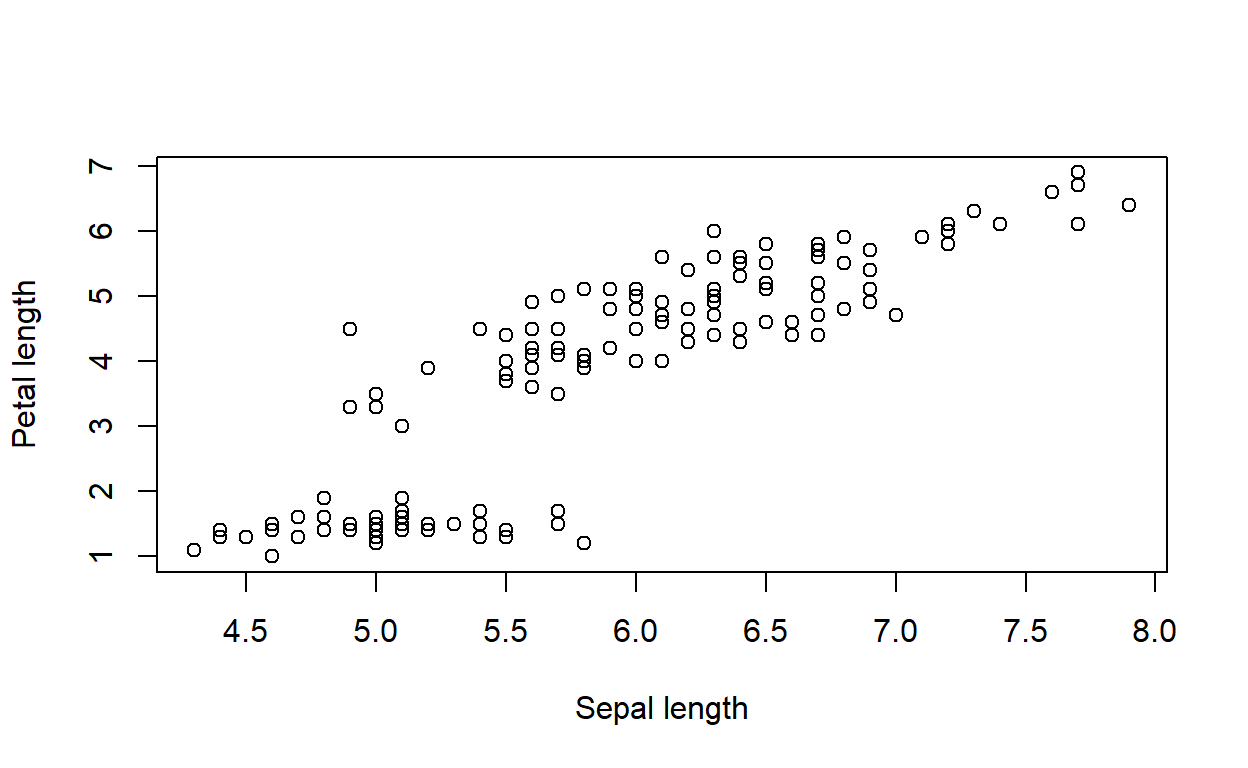
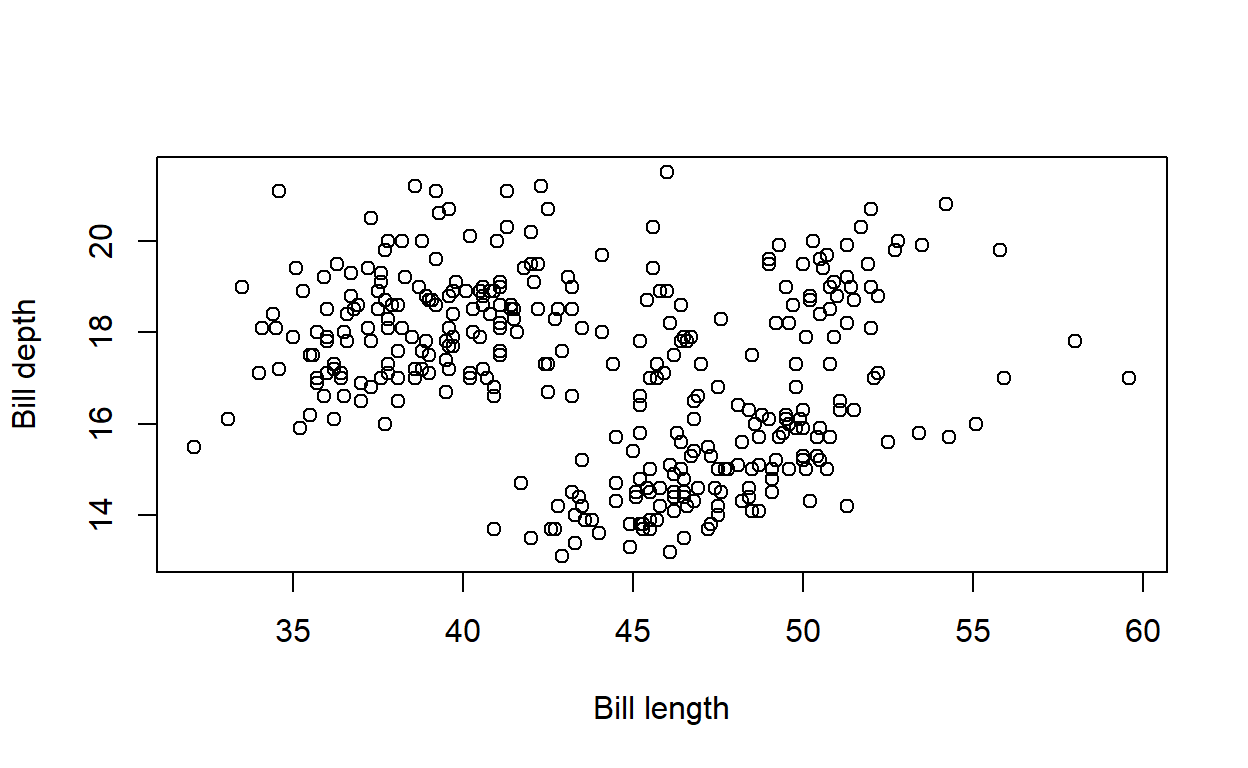
update Rstudio tutorial

diff --git a/docs/posts/RStudio_for_beginners/index.html b/docs/posts/RStudio_for_beginners/index.html
@@ -24,8 +24,8 @@
 
 
 <!--  https://schema.org/Article -->
-<meta property="article:published" itemprop="datePublished" content="2020-07-02"/>
-<meta property="article:created" itemprop="dateCreated" content="2020-07-02"/>
+<meta property="article:published" itemprop="datePublished" content="2020-07-08"/>
+<meta property="article:created" itemprop="dateCreated" content="2020-07-08"/>
 
 <!--  https://developers.facebook.com/docs/sharing/webmasters#markup -->
 <meta property="og:title" content="Pop_Ecol_KMUTT: Beginner session in R"/>
@@ -41,7 +41,7 @@
   <!--radix_placeholder_rmarkdown_metadata-->
 
 <script type="text/json" id="radix-rmarkdown-metadata">
-{"type":"list","attributes":{"names":{"type":"character","attributes":{},"value":["title","output","date"]}},"value":[{"type":"character","attributes":{},"value":["Beginner session in R"]},{"type":"list","attributes":{"names":{"type":"character","attributes":{},"value":["distill::distill_article"]}},"value":[{"type":"list","attributes":{"names":{"type":"character","attributes":{},"value":["self_contained"]}},"value":[{"type":"logical","attributes":{},"value":[false]}]}]},{"type":"character","attributes":{},"value":["07-02-2020"]}]}
+{"type":"list","attributes":{"names":{"type":"character","attributes":{},"value":["title","output","date"]}},"value":[{"type":"character","attributes":{},"value":["Beginner session in R"]},{"type":"list","attributes":{"names":{"type":"character","attributes":{},"value":["distill::distill_article"]}},"value":[{"type":"list","attributes":{"names":{"type":"character","attributes":{},"value":["self_contained"]}},"value":[{"type":"logical","attributes":{},"value":[false]}]}]},{"type":"character","attributes":{},"value":["07-08-2020"]}]}
 </script>
 <!--/radix_placeholder_rmarkdown_metadata-->
   
@@ -1276,7 +1276,7 @@ document.addEventListener('DOMContentLoaded', function() {
 <!--radix_placeholder_front_matter-->
 
 <script id="distill-front-matter" type="text/json">
-{"title":"Beginner session in R","authors":[],"publishedDate":"2020-07-02T00:00:00.000+02:00"}
+{"title":"Beginner session in R","authors":[],"publishedDate":"2020-07-08T00:00:00.000+02:00"}
 </script>
 
 <!--/radix_placeholder_front_matter-->
@@ -1848,7 +1848,7 @@ plot(x=penguins$bill_length_mm, y=penguins$bill_depth_mm)</code></pre>
 <p>We can change axis labels by changing xlab and ylab in the brackets:</p>
 <div class="layout-chunk" data-layout="l-body">
 <pre class="r"><code>
-plot(x=iris$Sepal.Length, y=iris$Petal.Length, xlab=&quot;Sepal length&quot;, ylab=&quot;Petal length&quot;)</code></pre>
+plot(x=penguins$bill_length_mm, y=penguins$bill_depth_mm, xlab=&quot;Bill length&quot;, ylab=&quot;Bill depth&quot;)</code></pre>
 <p><img src="RStudio_for_beginners_files/figure-html5/unnamed-chunk-34-1.png" width="624" /></p>
 </div>
 <p>We can change the colour of the circles depending on the species:</p>

diff --git a/_posts/RStudio_for_beginners/RStudio_for_beginners.html b/_posts/RStudio_for_beginners/RStudio_for_beginners.html
@@ -24,8 +24,8 @@
   
   
   <!--  https://schema.org/Article -->
-  <meta property="article:published" itemprop="datePublished" content="2020-07-02"/>
-  <meta property="article:created" itemprop="dateCreated" content="2020-07-02"/>
+  <meta property="article:published" itemprop="datePublished" content="2020-07-08"/>
+  <meta property="article:created" itemprop="dateCreated" content="2020-07-08"/>
   
   <!--  https://developers.facebook.com/docs/sharing/webmasters#markup -->
   <meta property="og:title" content="Beginner session in R"/>
@@ -40,7 +40,7 @@
   <!--radix_placeholder_rmarkdown_metadata-->
   
   <script type="text/json" id="radix-rmarkdown-metadata">
-  {"type":"list","attributes":{"names":{"type":"character","attributes":{},"value":["title","output","date"]}},"value":[{"type":"character","attributes":{},"value":["Beginner session in R"]},{"type":"list","attributes":{"names":{"type":"character","attributes":{},"value":["distill::distill_article"]}},"value":[{"type":"list","attributes":{"names":{"type":"character","attributes":{},"value":["self_contained"]}},"value":[{"type":"logical","attributes":{},"value":[false]}]}]},{"type":"character","attributes":{},"value":["07-02-2020"]}]}
+  {"type":"list","attributes":{"names":{"type":"character","attributes":{},"value":["title","output","date"]}},"value":[{"type":"character","attributes":{},"value":["Beginner session in R"]},{"type":"list","attributes":{"names":{"type":"character","attributes":{},"value":["distill::distill_article"]}},"value":[{"type":"list","attributes":{"names":{"type":"character","attributes":{},"value":["self_contained"]}},"value":[{"type":"logical","attributes":{},"value":[false]}]}]},{"type":"character","attributes":{},"value":["07-08-2020"]}]}
   </script>
   <!--/radix_placeholder_rmarkdown_metadata-->
   
@@ -938,7 +938,7 @@
 <!--radix_placeholder_front_matter-->
 
 <script id="distill-front-matter" type="text/json">
-{"title":"Beginner session in R","authors":[],"publishedDate":"2020-07-02T00:00:00.000+02:00"}
+{"title":"Beginner session in R","authors":[],"publishedDate":"2020-07-08T00:00:00.000+02:00"}
 </script>
 
 <!--/radix_placeholder_front_matter-->
@@ -1486,7 +1486,7 @@ plot(x=penguins$bill_length_mm, y=penguins$bill_depth_mm)</code></pre>
 <p>We can change axis labels by changing xlab and ylab in the brackets:</p>
 <div class="layout-chunk" data-layout="l-body">
 <pre class="r"><code>
-plot(x=iris$Sepal.Length, y=iris$Petal.Length, xlab=&quot;Sepal length&quot;, ylab=&quot;Petal length&quot;)</code></pre>
+plot(x=penguins$bill_length_mm, y=penguins$bill_depth_mm, xlab=&quot;Bill length&quot;, ylab=&quot;Bill depth&quot;)</code></pre>
 <p><img src="RStudio_for_beginners_files/figure-html5/unnamed-chunk-34-1.png" width="624" /></p>
 </div>
 <p>We can change the colour of the circles depending on the species:</p>

diff --git a/docs/index.html b/docs/index.html
@@ -1624,7 +1624,7 @@ function init_posts_list() {
 <a href="posts/RStudio_for_beginners/" class="post-preview">
 <script class="post-metadata" type="text/json">{"categories":[]}</script>
 <div class="metadata">
-<div class="publishedDate">July 2, 2020</div>
+<div class="publishedDate">July 8, 2020</div>
 </div>
 <div class="thumbnail">
 <img data-src="posts/RStudio_for_beginners/RStudio_for_beginners_files/figure-html5/unnamed-chunk-33-1.png"/>
@@ -1637,9 +1637,11 @@ function init_posts_list() {
 <a href="posts/welcome/" class="post-preview">
 <script class="post-metadata" type="text/json">{"categories":[]}</script>
 <div class="metadata">
-<div class="publishedDate">June 30, 2020</div>
+<div class="publishedDate">July 1, 2020</div>
 </div>
-<div class="thumbnail"></div>
+<div class="thumbnail">
+<img/>
+</div>
 <div class="description">
 <h2>Welcome</h2>
 <p></p>
@@ -1650,7 +1652,7 @@ function init_posts_list() {
 <a href="#">More articles &raquo;</a>
 </div>
 </div>
-<!--/radix_placeholder_article_listing-->
+<!--/radix_placeholder_article_listing-->
 
 <div class="d-title">
 <h1>Pop_Ecol_KMUTT</h1>

diff --git a/docs/schedule.html b/docs/schedule.html
@@ -1357,7 +1357,7 @@ Quick introduction to R and RStudio for ecological data analysis and plotting gr
 Dusit &amp; Matt
 </td>
 <td style="text-align:left;">
-NA
+<a href="https://drmattg.github.io/PopulationEcologyKMUTT/posts/RStudio_for_beginners/" class="uri">https://drmattg.github.io/PopulationEcologyKMUTT/posts/RStudio_for_beginners/</a>
 </td>
 </tr>
 <tr>
